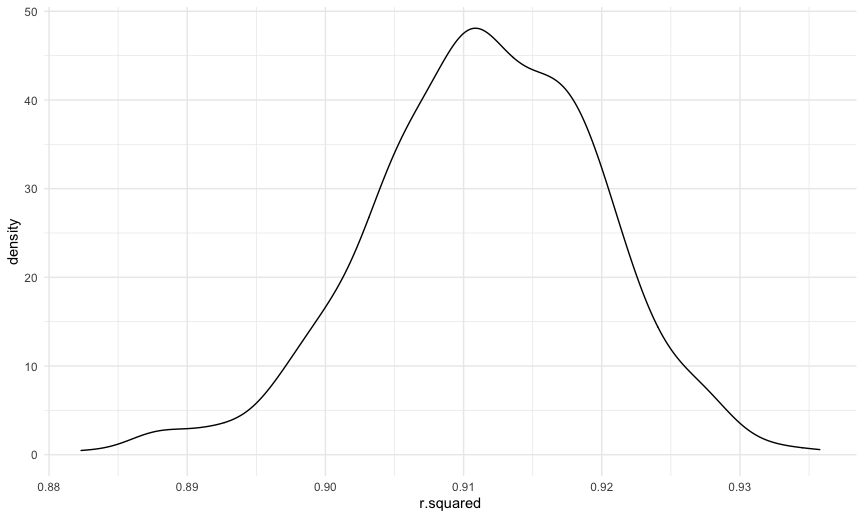
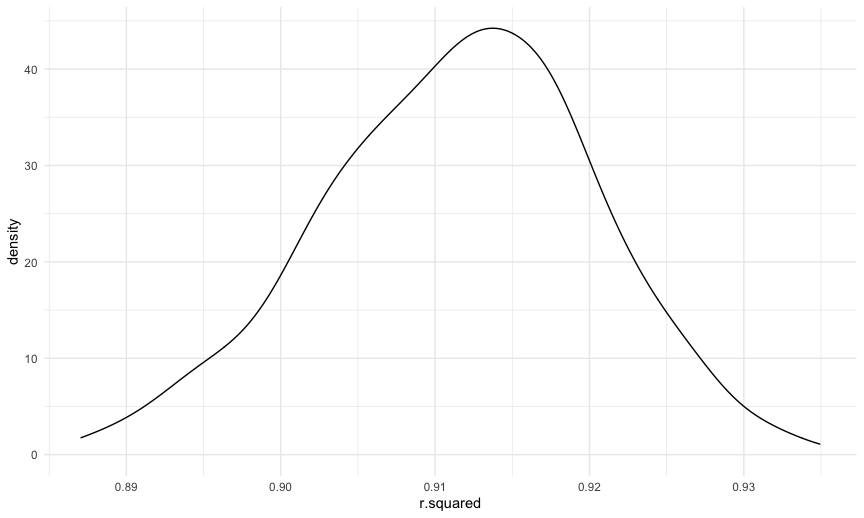
went to oh, update on 95%CI

diff --git a/p8105_hw6_xy2476.md b/p8105_hw6_xy2476.md
@@ -147,12 +147,17 @@ baby_df %>%
 
 <img src="p8105_hw6_xy2476_files/figure-gfm/unnamed-chunk-8-1.png" width="90%" />
 
+``` r
+##check scale
+```
+
 compare models
 
 ``` r
 model_fit = lm(bwt ~ delwt + gaweeks, data = baby_df)
 model_1 = lm(bwt ~ blength + gaweeks, data = baby_df)
 model_2 = lm(bwt ~ bhead * blength * babysex, data = baby_df)
+##change name
 ```
 
 ``` r
@@ -192,6 +197,10 @@ cv_df %>%
 ```
 
 <img src="p8105_hw6_xy2476_files/figure-gfm/unnamed-chunk-11-1.png" width="90%" />
+
+``` r
+##change name
+```
 
 adding too many variable can adjusted r sqare， degress of value
 
@@ -258,8 +267,6 @@ r_sq %>%
     ## 1    0.893    0.927
 
 ``` r
-set.seed(1)
-
 betas = 
   weather_df %>% 
   modelr::bootstrap(n = 500) %>% 
@@ -278,7 +285,12 @@ betas =
   summarise_all(na.omit) %>% 
   mutate(
     beta_c = log(beta0 * beta1)
-  )
+  ) 
+
+
+  toDelete = seq(1, nrow(betas), 2)
+betas = betas[ toDelete ,]
+  
   
 #distribution
 betas %>% 
@@ -289,6 +301,7 @@ betas %>%
 
 ``` r
 #95% CI
+ 
 betas %>% 
   summarize(
     ci_lower = quantile(beta_c, 0.025),
@@ -301,14 +314,35 @@ betas %>%
     ## # A tibble: 500 x 3
     ##    .id   ci_lower ci_upper
     ##    <chr>    <dbl>    <dbl>
-    ##  1 001       2.04     2.04
-    ##  2 002       2.03     2.03
-    ##  3 003       2.05     2.05
-    ##  4 004       2.07     2.07
-    ##  5 005       1.97     1.97
-    ##  6 006       1.99     1.99
-    ##  7 007       2.00     2.00
+    ##  1 001       2.03     2.03
+    ##  2 002       2.02     2.02
+    ##  3 003       2.03     2.03
+    ##  4 004       2.00     2.00
+    ##  5 005       2.00     2.00
+    ##  6 006       1.94     1.94
+    ##  7 007       2.03     2.03
     ##  8 008       2.00     2.00
     ##  9 009       2.01     2.01
     ## 10 010       2.02     2.02
     ## # … with 490 more rows
+
+``` r
+ci_lower = quantile(betas$beta_c, 0.025)
+ci_upper = quantile(betas$beta_c, 0.975)
+
+ci_lower
+```
+
+    ##     2.5% 
+    ## 1.971082
+
+``` r
+ci_upper
+```
+
+    ##    97.5% 
+    ## 2.056522
+
+``` r
+##pull 
+```
